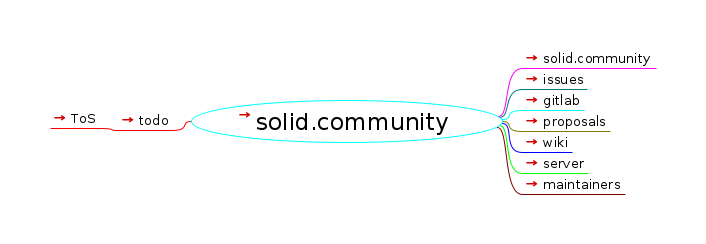
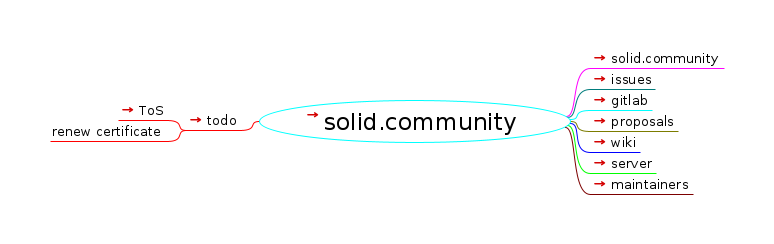
add to todos

Changed region(s): [[0.0623, 0.2582, 0.9037, 0.8033], [0.7479, 0.2295, 0.9348, 0.2869]]

diff --git a/solid.community/index.html b/solid.community/index.html
@@ -23,17 +23,18 @@
                    };
                };
           
-          --></script></head><body><h1>solid.community</h1><div style="width:96%;  padding:2%;  margin-bottom:10px;  border: 0px;  text-align:center;  vertical-align:center;"><img src="index.html_files/image.png" style="margin-bottom:10px; &#9;border: 0px; &#9;text-align:center; &#9;vertical-align:center;" alt="Imagemap" usemap="#fm_imagemap" /></div><map name="fm_imagemap" id="fm_imagemap"><area shape="rect" href="../index.html" alt="solid.community" title="solid.community" coords="191,100,503,143" />
-<area shape="rect" href="https://solid.community/" alt="solid.community" title="solid.community" coords="522,50,656,68" />
-<area shape="rect" href="https://gitlab.com/solid.community/support/issues" alt="issues" title="issues" coords="522,71,587,89" />
-<area shape="rect" href="https://gitlab.com/solid.community" alt="gitlab" title="gitlab" coords="522,92,584,110" />
-<area shape="rect" href="https://gitlab.com/solid.community/proposals" alt="proposals" title="proposals" coords="522,113,610,131" />
-<area shape="rect" href="https://gitlab.com/solid.community/support/-/wikis/home" alt="wiki" title="wiki" coords="522,134,572,152" />
-<area shape="rect" href="server/index.html" alt="server" title="server" coords="522,155,588,173" />
-<area shape="rect" href="https://gitlab.com/groups/solid.community/-/group_members" alt="maintainers" title="maintainers" coords="522,176,625,194" />
-<area shape="rect" href="https://gitlab.com/solid.community/proposals/-/issues" alt="todo" title="todo" coords="118,112,172,130" />
-<area shape="rect" href="https://gitlab.com/solid.community/proposals/-/issues/1" alt="ToS" title="ToS" coords="50,110,99,128" />
+          --></script></head><body><h1>solid.community</h1><div style="width:96%;  padding:2%;  margin-bottom:10px;  border: 0px;  text-align:center;  vertical-align:center;"><img src="index.html_files/image.png" style="margin-bottom:10px; &#9;border: 0px; &#9;text-align:center; &#9;vertical-align:center;" alt="Imagemap" usemap="#fm_imagemap" /></div><map name="fm_imagemap" id="fm_imagemap"><area shape="rect" href="../index.html" alt="solid.community" title="solid.community" coords="259,100,571,143" />
+<area shape="rect" href="https://solid.community/" alt="solid.community" title="solid.community" coords="590,50,724,68" />
+<area shape="rect" href="https://gitlab.com/solid.community/support/issues" alt="issues" title="issues" coords="590,71,655,89" />
+<area shape="rect" href="https://gitlab.com/solid.community" alt="gitlab" title="gitlab" coords="590,92,652,110" />
+<area shape="rect" href="https://gitlab.com/solid.community/proposals" alt="proposals" title="proposals" coords="590,113,678,131" />
+<area shape="rect" href="https://gitlab.com/solid.community/support/-/wikis/home" alt="wiki" title="wiki" coords="590,134,640,152" />
+<area shape="rect" href="server/index.html" alt="server" title="server" coords="590,155,656,173" />
+<area shape="rect" href="https://gitlab.com/groups/solid.community/-/group_members" alt="maintainers" title="maintainers" coords="590,176,693,194" />
+<area shape="rect" href="https://gitlab.com/solid.community/proposals/-/issues" alt="todo" title="todo" coords="186,112,240,130" />
+<area shape="rect" href="https://gitlab.com/solid.community/proposals/-/issues/1" alt="ToS" title="ToS" coords="118,102,167,120" />
+<area shape="rect" href="#FMID_1501639836FM" alt="renew certificate" title="renew certificate" coords="50,123,167,141" />
 </map>
 
-<div class="node"><img src="index.html_files/hide.png" class="hideshow" alt="hide" onClick="toggle(&quot;N65543&quot;)" id="imgN65543" /><a id="FMID_1488379025FM" /><div class="nodecontent" style="color:#000000;font-size:150%;"><a href="../index.html">solid.community</a> <a href="../index.html"><img src="index.html_files/ilink.png" alt="User Link" style="border-width:0" /></a></div><div class="content" id="N65543"><div class="node"><img src="index.html_files/leaf.png" class="hideshow" alt="leaf" /><a id="FMID_576302726FM" /><div class="nodecontent" style="color:#000000;font-size:83%;"><a href="https://solid.community/">solid.community</a> <a href="https://solid.community/"><img src="index.html_files/ilink.png" alt="User Link" style="border-width:0" /></a></div></div><div class="node"><img src="index.html_files/leaf.png" class="hideshow" alt="leaf" /><a id="FMID_286214866FM" /><div class="nodecontent" style="color:#000000;font-size:83%;"><a href="https://gitlab.com/solid.community/support/issues">issues</a> <a href="https://gitlab.com/solid.community/support/issues"><img src="index.html_files/ilink.png" alt="User Link" style="border-width:0" /></a></div></div><div class="node"><img src="index.html_files/leaf.png" class="hideshow" alt="leaf" /><a id="FMID_990185859FM" /><div class="nodecontent" style="color:#000000;font-size:83%;"><a href="https://gitlab.com/solid.community">gitlab</a> <a href="https://gitlab.com/solid.community"><img src="index.html_files/ilink.png" alt="User Link" style="border-width:0" /></a></div></div><div class="node"><img src="index.html_files/leaf.png" class="hideshow" alt="leaf" /><a id="FMID_1338092243FM" /><div class="nodecontent" style="color:#000000;font-size:83%;"><a href="https://gitlab.com/solid.community/proposals">proposals</a> <a href="https://gitlab.com/solid.community/proposals"><img src="index.html_files/ilink.png" alt="User Link" style="border-width:0" /></a></div></div><div class="node"><img src="index.html_files/leaf.png" class="hideshow" alt="leaf" /><a id="FMID_841761167FM" /><div class="nodecontent" style="color:#000000;font-size:83%;"><a href="https://gitlab.com/solid.community/support/-/wikis/home">wiki</a> <a href="https://gitlab.com/solid.community/support/-/wikis/home"><img src="index.html_files/ilink.png" alt="User Link" style="border-width:0" /></a></div></div><div class="node"><img src="index.html_files/leaf.png" class="hideshow" alt="leaf" /><a id="FMID_426543359FM" /><div class="nodecontent" style="color:#000000;font-size:83%;"><a href="server/index.html">server</a> <a href="server/index.html"><img src="index.html_files/ilink.png" alt="User Link" style="border-width:0" /></a></div></div><div class="node"><img src="index.html_files/leaf.png" class="hideshow" alt="leaf" /><a id="FMID_697534265FM" /><div class="nodecontent" style="color:#000000;font-size:83%;"><a href="https://gitlab.com/groups/solid.community/-/group_members">maintainers</a> <a href="https://gitlab.com/groups/solid.community/-/group_members"><img src="index.html_files/ilink.png" alt="User Link" style="border-width:0" /></a></div></div><div class="node"><img src="index.html_files/hide.png" class="hideshow" alt="hide" onClick="toggle(&quot;N66706&quot;)" id="imgN66706" /><a id="FMID_1636972351FM" /><div class="nodecontent" style="color:#000000;font-size:83%;"><a href="https://gitlab.com/solid.community/proposals/-/issues">todo</a> <a href="https://gitlab.com/solid.community/proposals/-/issues"><img src="index.html_files/ilink.png" alt="User Link" style="border-width:0" /></a></div><div class="content" id="N66706"><div class="node"><img src="index.html_files/leaf.png" class="hideshow" alt="leaf" /><a id="FMID_1065183033FM" /><div class="nodecontent" style="color:#000000;font-size:83%;"><a href="https://gitlab.com/solid.community/proposals/-/issues/1">ToS</a> <a href="https://gitlab.com/solid.community/proposals/-/issues/1"><img src="index.html_files/ilink.png" alt="User Link" style="border-width:0" /></a></div></div></div></div></div></div>
+<div class="node"><img src="index.html_files/hide.png" class="hideshow" alt="hide" onClick="toggle(&quot;N65543&quot;)" id="imgN65543" /><a id="FMID_1488379025FM" /><div class="nodecontent" style="color:#000000;font-size:150%;"><a href="../index.html">solid.community</a> <a href="../index.html"><img src="index.html_files/ilink.png" alt="User Link" style="border-width:0" /></a></div><div class="content" id="N65543"><div class="node"><img src="index.html_files/leaf.png" class="hideshow" alt="leaf" /><a id="FMID_576302726FM" /><div class="nodecontent" style="color:#000000;font-size:83%;"><a href="https://solid.community/">solid.community</a> <a href="https://solid.community/"><img src="index.html_files/ilink.png" alt="User Link" style="border-width:0" /></a></div></div><div class="node"><img src="index.html_files/leaf.png" class="hideshow" alt="leaf" /><a id="FMID_286214866FM" /><div class="nodecontent" style="color:#000000;font-size:83%;"><a href="https://gitlab.com/solid.community/support/issues">issues</a> <a href="https://gitlab.com/solid.community/support/issues"><img src="index.html_files/ilink.png" alt="User Link" style="border-width:0" /></a></div></div><div class="node"><img src="index.html_files/leaf.png" class="hideshow" alt="leaf" /><a id="FMID_990185859FM" /><div class="nodecontent" style="color:#000000;font-size:83%;"><a href="https://gitlab.com/solid.community">gitlab</a> <a href="https://gitlab.com/solid.community"><img src="index.html_files/ilink.png" alt="User Link" style="border-width:0" /></a></div></div><div class="node"><img src="index.html_files/leaf.png" class="hideshow" alt="leaf" /><a id="FMID_1338092243FM" /><div class="nodecontent" style="color:#000000;font-size:83%;"><a href="https://gitlab.com/solid.community/proposals">proposals</a> <a href="https://gitlab.com/solid.community/proposals"><img src="index.html_files/ilink.png" alt="User Link" style="border-width:0" /></a></div></div><div class="node"><img src="index.html_files/leaf.png" class="hideshow" alt="leaf" /><a id="FMID_841761167FM" /><div class="nodecontent" style="color:#000000;font-size:83%;"><a href="https://gitlab.com/solid.community/support/-/wikis/home">wiki</a> <a href="https://gitlab.com/solid.community/support/-/wikis/home"><img src="index.html_files/ilink.png" alt="User Link" style="border-width:0" /></a></div></div><div class="node"><img src="index.html_files/leaf.png" class="hideshow" alt="leaf" /><a id="FMID_426543359FM" /><div class="nodecontent" style="color:#000000;font-size:83%;"><a href="server/index.html">server</a> <a href="server/index.html"><img src="index.html_files/ilink.png" alt="User Link" style="border-width:0" /></a></div></div><div class="node"><img src="index.html_files/leaf.png" class="hideshow" alt="leaf" /><a id="FMID_697534265FM" /><div class="nodecontent" style="color:#000000;font-size:83%;"><a href="https://gitlab.com/groups/solid.community/-/group_members">maintainers</a> <a href="https://gitlab.com/groups/solid.community/-/group_members"><img src="index.html_files/ilink.png" alt="User Link" style="border-width:0" /></a></div></div><div class="node"><img src="index.html_files/hide.png" class="hideshow" alt="hide" onClick="toggle(&quot;N66706&quot;)" id="imgN66706" /><a id="FMID_1636972351FM" /><div class="nodecontent" style="color:#000000;font-size:83%;"><a href="https://gitlab.com/solid.community/proposals/-/issues">todo</a> <a href="https://gitlab.com/solid.community/proposals/-/issues"><img src="index.html_files/ilink.png" alt="User Link" style="border-width:0" /></a></div><div class="content" id="N66706"><div class="node"><img src="index.html_files/leaf.png" class="hideshow" alt="leaf" /><a id="FMID_1065183033FM" /><div class="nodecontent" style="color:#000000;font-size:83%;"><a href="https://gitlab.com/solid.community/proposals/-/issues/1">ToS</a> <a href="https://gitlab.com/solid.community/proposals/-/issues/1"><img src="index.html_files/ilink.png" alt="User Link" style="border-width:0" /></a></div></div><div class="node"><img src="index.html_files/leaf.png" class="hideshow" alt="leaf" /><a id="FMID_1501639836FM" /><div class="nodecontent" style="color:#000000;font-size:83%;">renew certificate</div></div></div></div></div></div>
 </body></html>

diff --git a/solid.community/index.ppt.html b/solid.community/index.ppt.html
@@ -85,6 +85,7 @@
                         <li>
                             <a href="https://gitlab.com/solid.community/proposals/-/issues/1" class="link external">ToS</a>
                         </li>
+                        <li>renew certificate</li>
                     </ul>
                 </section>
                 <section id="end">

diff --git a/solid.community/server/index.mm b/solid.community/server/index.mm
@@ -1,6 +1,6 @@
 <map version="freeplane 1.7.0">
 <!--To view this file, download free mind mapping software Freeplane from http://freeplane.sourceforge.net -->
-<node TEXT="server" FOLDED="false" ID="ID_550395522" CREATED="1583701906853" MODIFIED="1583871103629" LINK="../index.mm">
+<node TEXT="server" FOLDED="false" ID="ID_550395522" CREATED="1583701906853" MODIFIED="1583930605432" LINK="../index.mm" STYLE="oval">
 <edge STYLE="bezier" COLOR="#00ff00" WIDTH="thin" DASH="SOLID"/>
 <hook NAME="MapStyle">
     <properties edgeColorConfiguration="#808080ff,#ff0000ff,#0000ffff,#00ff00ff,#ff00ffff,#00ffffff,#7c0000ff,#00007cff,#007c00ff,#7c007cff,#007c7cff,#7c7c00ff" fit_to_viewport="false"/>
@@ -63,9 +63,19 @@
 </stylenode>
 </map_styles>
 </hook>
-<hook NAME="AutomaticEdgeColor" COUNTER="29" RULE="ON_BRANCH_CREATION"/>
+<hook NAME="AutomaticEdgeColor" COUNTER="31" RULE="ON_BRANCH_CREATION"/>
+<font SIZE="18"/>
 <node TEXT="wiki" POSITION="right" ID="ID_515807084" CREATED="1583871129464" MODIFIED="1583871182383" LINK="https://gitlab.com/solid.community/support/-/wikis/home#server-info">
 <edge COLOR="#00007c"/>
+</node>
+<node TEXT="software" POSITION="right" ID="ID_753133880" CREATED="1583930446376" MODIFIED="1583930454290">
+<edge COLOR="#007c00"/>
+<node TEXT="node solid server" ID="ID_75946428" CREATED="1583930467813" MODIFIED="1583930472786">
+<node TEXT="5.2.3" ID="ID_1910404502" CREATED="1583930475860" MODIFIED="1583930482743"/>
+</node>
+</node>
+<node TEXT="hardware" POSITION="right" ID="ID_32408149" CREATED="1583930456061" MODIFIED="1583930458890">
+<edge COLOR="#7c007c"/>
 </node>
 </node>
 </map>

diff --git a/solid.community/index.mm b/solid.community/index.mm
@@ -89,6 +89,7 @@
 <node TEXT="todo" POSITION="left" ID="ID_1636972351" CREATED="1583701871745" MODIFIED="1583742137390" LINK="https://gitlab.com/solid.community/proposals/-/issues">
 <edge COLOR="#ff0000"/>
 <node TEXT="ToS" ID="ID_1065183033" CREATED="1583742165749" MODIFIED="1583742181004" LINK="https://gitlab.com/solid.community/proposals/-/issues/1"/>
+<node TEXT="renew certificate" ID="ID_1501639836" CREATED="1584046505913" MODIFIED="1584046510068"/>
 </node>
 </node>
 </map>
